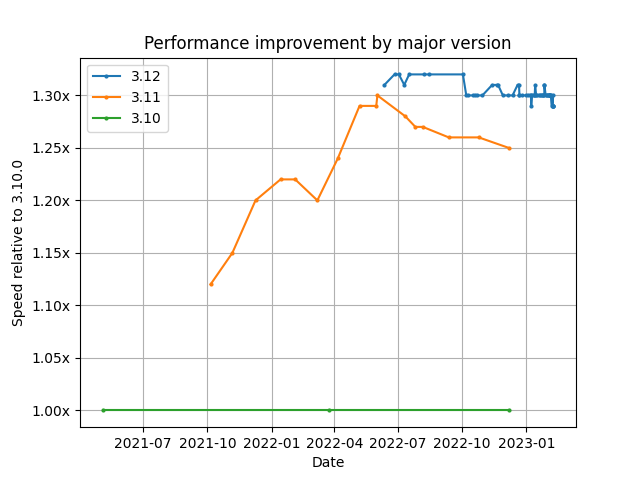
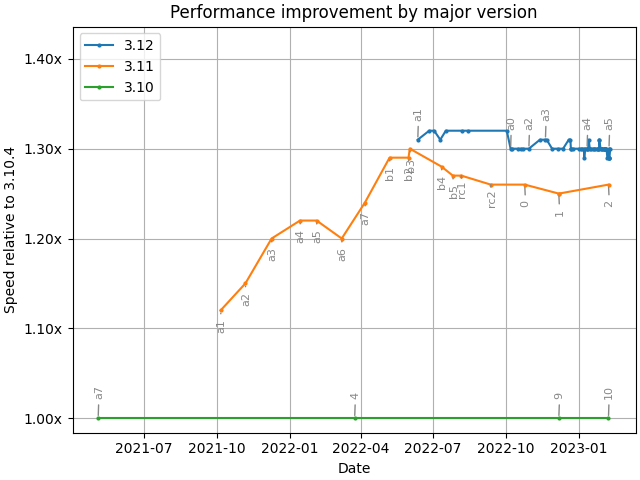
Improve plot somewhat

diff --git a/scripts/lib/plot.py b/scripts/lib/plot.py
@@ -1,5 +1,6 @@
 import datetime
 from pathlib import Path
+import re
 from typing import Any, Dict, Iterable, Optional, Sequence, Tuple
 
 
@@ -115,6 +116,13 @@ def plot_diff(
     plt.close()
 
 
+def get_micro_version(version):
+    micro = version.split(".")[-1].replace("+", "")
+    if match := re.match(r"[0-9]+([a-z]+.+)", micro):
+        micro = match.groups()[0]
+    return micro
+
+
 def longitudinal_plot(
     results: Iterable[result.Result], bases: Sequence[str], output_filename: Path
 ):
@@ -138,25 +146,54 @@ def longitudinal_plot(
     by_version = list(by_version.items())
     by_version.sort(reverse=True)
 
+    fig, axs = plt.subplots(layout="constrained")
+
+    arrow_dir = 1
     for version, ver_results in by_version:
         ver_results.sort(key=lambda x: x.commit_datetime)
         dates = [
             datetime.datetime.fromisoformat(x.commit_datetime) for x in ver_results
         ]
+        changes = [
+            result.Comparison(ref, r, base).geometric_mean_float for r in ver_results
+        ]
 
-        changes = []
+        annotations = []
         for r in ver_results:
-            changes.append(result.Comparison(ref, r, base).geometric_mean_float)
+            micro = get_micro_version(r.version)
+            if micro not in annotations:
+                annotations.append(micro)
+            else:
+                annotations.append(None)
 
-        plt.plot(
+        axs.plot(
             dates, changes, "o-", label=".".join(str(x) for x in version), markersize=2
         )
+        for date, change, annotation in zip(dates, changes, annotations):
+            if annotation is not None:
+                text = axs.annotate(
+                    annotation,
+                    xy=(date, change),
+                    xycoords="data",
+                    xytext=(-3, 15 * arrow_dir),
+                    textcoords="offset points",
+                    rotation=90,
+                    arrowprops=dict(arrowstyle="-", connectionstyle="arc"),
+                )
+                text.set_color("#888")
+                text.set_size(8)
+                text.arrow_patch.set_color("#888")
 
-    plt.legend()
-    plt.xlabel("Date")
-    plt.ylabel("Speed relative to 3.10.0")
-    plt.title("Performance improvement by major version")
-    plt.gca().yaxis.set_major_formatter(formatter)
-    plt.grid()
+        arrow_dir *= -1
 
-    plt.savefig("longitude.png")
+    axs.legend(loc="upper left")
+    axs.set_xlabel("Date")
+    axs.set_ylabel(f"Speed relative to {base}")
+    axs.set_title("Performance improvement by major version")
+    axs.yaxis.set_major_formatter(formatter)
+    ylim = axs.get_ylim()
+    axs.set_ylim(top=ylim[1] + 0.1)
+    axs.grid()
+
+    plt.savefig(output_filename)
+    plt.close()
